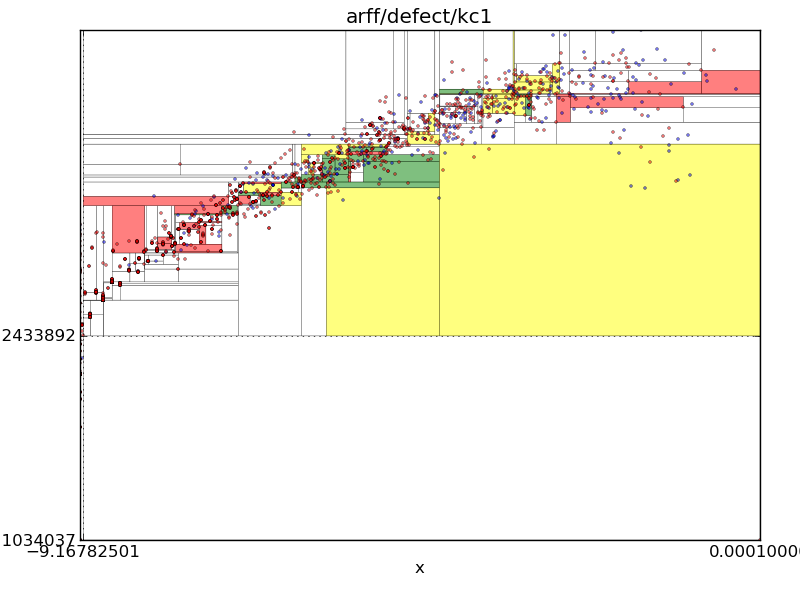
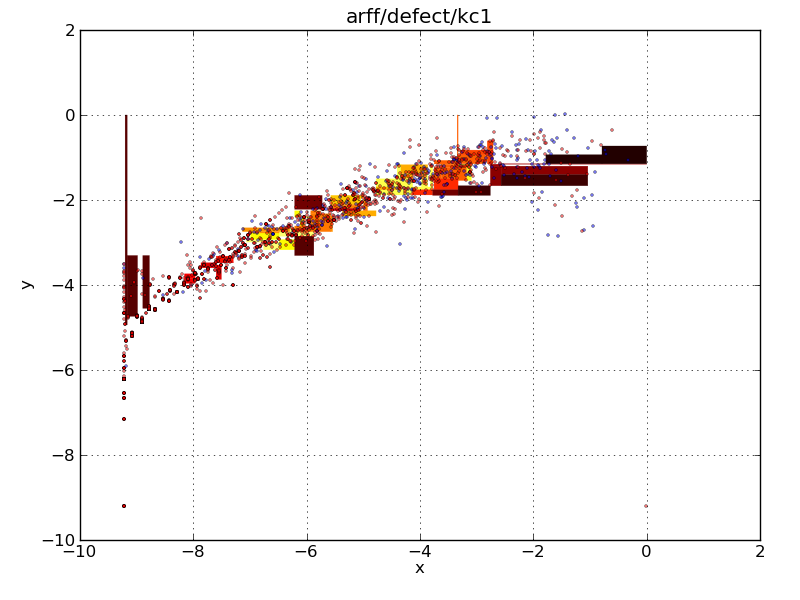
Working on the color ranges for performance scores.  This is what I have so far, a key would be amazing.

diff --git a/trunk/src/python/idea.py b/trunk/src/python/idea.py
@@ -6,6 +6,7 @@ import numpy
 import matplotlib.lines as lines
 import matplotlib.pyplot as plt
 import matplotlib.collections as collections
+from matplotlib import cm, colors
 from optparse import OptionParser
 from util import *
 from quadrant import *
@@ -55,8 +56,9 @@ class Idea:
                         yticks = EqualFrequencyTicks(self.DataCoordinates.transpose(),1,Parameters.n)
 
 
-		ax1.set_xticks(xticks)
-		ax1.set_yticks(yticks)
+		#ax1.set_xticks(xticks)
+		#ax1.set_yticks(yticks)
+
 		plt.title(filename)
 		plt.xlabel("x")
 		plt.ylabel("y")
@@ -87,48 +89,24 @@ class Idea:
 			self.DataCoordinates = self.DataCoordinates.transpose()
 			Quadrants = self.MakeQuadrants(Parameters, xticks, yticks)
 
+			# Display the cuts we made.  Since we don't care about unclustered regions, leaving this out.
 			"""
-			for i in range(len(Quadrants)):
-			if (Quadrants[i].Data != []) and (len(Quadrants[i].Data) > 4):
-					xmin = Quadrants[i].xmin
-					xmax = Quadrants[i].xmax
-					ymin = Quadrants[i].ymin
-					ymax = Quadrants[i].ymax
-					ax.broken_barh([ (xmin, (xmax - xmin)) ], (ymin, (ymax - ymin)) , facecolors='gold', alpha='0.5')
-
-				else:
-					xmin = Quadrants[i].xmin
-					xmax = Quadrants[i].xmax
-					ymin = Quadrants[i].ymin
-					ymax = Quadrants[i].ymax
-					ax.broken_barh([ (xmin, (xmax - xmin)) ], (ymin, (ymax - ymin)) , facecolors='gray', alpha='0.2')
-			"""
-
-			# Display the cuts we made
 			for i in range(len(Quadrants)):
 				xmin = Quadrants[i].xmin
 				xmax = Quadrants[i].xmax
 				ymin = Quadrants[i].ymin
 				ymax = Quadrants[i].ymax
 				ax.broken_barh([ (xmin, (xmax - xmin)) ], (ymin, (ymax - ymin)) , facecolors='white', linewidth=0.2)
-			
+			"""
+
 			# Color the clusters green.
 			Clusters = GRIDCLUS(Quadrants)
-			"""
-			for Cluster in Clusters:
-				for Quadrant in Cluster:
-					xmin = Quadrant.xmin
-					xmax = Quadrant.xmax
-					ymin = Quadrant.ymin
-					ymax = Quadrant.ymax
-					ax.broken_barh([ (xmin, (xmax - xmin)) ], (ymin, (ymax - ymin)) , facecolors='green', alpha='0.5')
-			"""
+
 			# Gather performance scores for each cluster
 			Scores = []
 			for Cluster in Clusters:
 				Scores.append((PerformanceScore(Cluster), Cluster))
 			
-			TYPE=""
 			if type(self.data[0][-1]) is str:
 				Scores = sorted(Scores, key=lambda score: score[0], reverse=True)
 				TYPE = "DEFECT"
@@ -142,30 +120,22 @@ class Idea:
 				else:
 					print "MDMRE: %.2f" % Scores[i][0]
 
-				# Top 25%
-				if (i < round(len(Scores)/4)):
-					for Quadrant in Scores[i][1]:
-						xmin = Quadrant.xmin
-						xmax = Quadrant.xmax
-						ymin = Quadrant.ymin
-						ymax = Quadrant.ymax
-						ax.broken_barh([ (xmin, (xmax - xmin)) ], (ymin, (ymax - ymin)) , facecolors='green', alpha='0.5', linewidth=0.2)
-				# Middle 50%
-				elif (i < round(len(Scores)/2)) and (i > round(len(Scores)/4)):
-					for Quadrant in Scores[i][1]:
-						xmin = Quadrant.xmin
-						xmax = Quadrant.xmax
-						ymin = Quadrant.ymin
-						ymax = Quadrant.ymax
-						ax.broken_barh([ (xmin, (xmax - xmin)) ], (ymin, (ymax - ymin)) , facecolors='yellow', alpha='0.5', linewidth=0.2)
-				# Bottom 25%
-				elif (i < len(Scores)) and (i > round(len(Scores)/2)):
-					for Quadrant in Scores[i][1]:
-						xmin = Quadrant.xmin
-						xmax = Quadrant.xmax
-						ymin = Quadrant.ymin
-						ymax = Quadrant.ymax
-						ax.broken_barh([ (xmin, (xmax - xmin)) ], (ymin, (ymax - ymin)) , facecolors='red', alpha='0.5', linewidth=0.2)
+					
+				def make_N_colors(cmap_name, N):
+					cmap = cm.get_cmap(cmap_name, N)
+					return cmap(np.arange(N))
+
+				def ColorQuadrants(quadrants, color):
+					for quadrant in quadrants:
+						xmin = quadrant.xmin
+						xmax = quadrant.xmax
+						ymin = quadrant.ymin
+						ymax = quadrant.ymax
+						ax.broken_barh([ (xmin, (xmax - xmin)) ], (ymin, (ymax - ymin)) , color=color, linewidth=0.2)
+
+				colors = make_N_colors(cm.hot, len(Scores)*10)
+				colors = colors[::-1]
+				ColorQuadrants(Scores[i][1], colors[i*10])
 				
 		return fig
 
@@ -245,8 +215,6 @@ class Idea:
 
 		minn = minx
 		maxn = maxy
-#		minn = yticks[1]
-#		maxn = xticks[1]
 
 		# Bottom Left
 		Quadrants.append(self.MakeQuadrant(minn, x, minn, y, self.DataCoordinates, self.data))
@@ -257,7 +225,7 @@ class Idea:
 		# Top Right
 		Quadrants.append(self.MakeQuadrant(x, maxn, y, maxn, self.DataCoordinates, self.data))
 
-		# Treat quadrants as a tree, where root is the initial board.
+		# Treat quadrants as a tree, where root is the initial block.
 		root = self.MakeQuadrant(minn,maxn,minn,maxn, self.DataCoordinates, self.data)
 		root.children = Quadrants
 
@@ -289,27 +257,6 @@ class Idea:
 		collectleaves(root)
 		Quadrants = leaflist
 
-		"""
-		# This is simply for --n integer and has not yet been implemented for equal freq etc.
-		# Assuming axes are 1.0 -> 1.0 and split by Parameters.n
-		for x in range(Parameters.n):
-			for y in range(Parameters.n):
-				xmin = float(x)/Parameters.n
-				xmax = (float(x)/Parameters.n) + (1.0/Parameters.n)
-				ymin = float(y)/Parameters.n
-				ymax = (float(y)/Parameters.n) + (1.0/Parameters.n)
-				print "Quadrant defined by\n\txmin: %f\n\txmax: %f\n\tymin: %f\n\tymax: %f\n" % (xmin, xmax, ymin, ymax)
-				data = []
-				for i in range(len(self.DataCoordinates)):
-					xcoord = self.DataCoordinates[i][0]
-					ycoord = self.DataCoordinates[i][1]
-					if ( xcoord >= xmin and xcoord <= xmax ) and ( ycoord >= ymin and ycoord <= ymax ):
-						data.append(Instance(self.DataCoordinates[i], self.data[i]))
-					Quadrants.append(Quadrant(xmin, xmax, ymin, ymax, data))
-				print "Has data:"
-				for instance in data:
-					print instance.datum
-		"""
 		return Quadrants
 
 	def MakeQuadrant(self, xmin, xmax, ymin, ymax, DataCoordinates, data):
